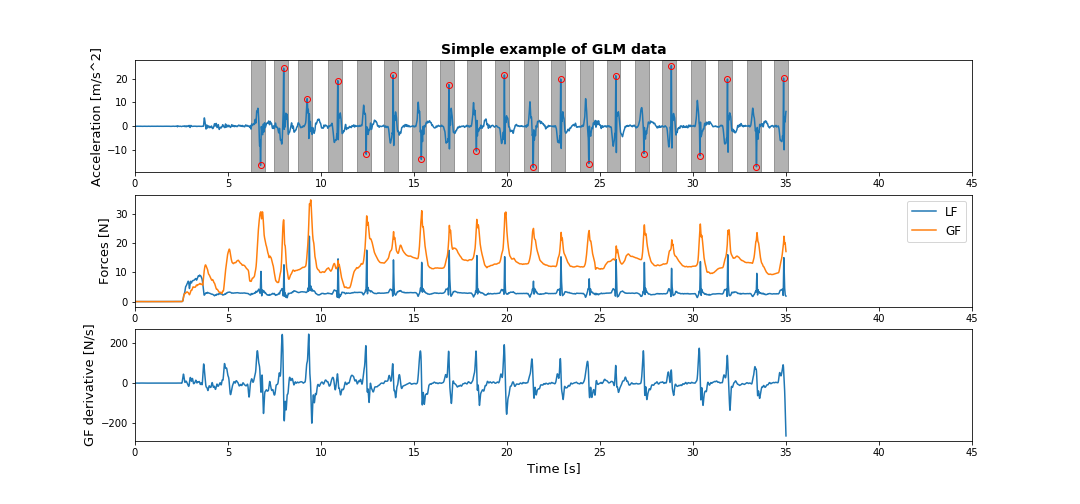
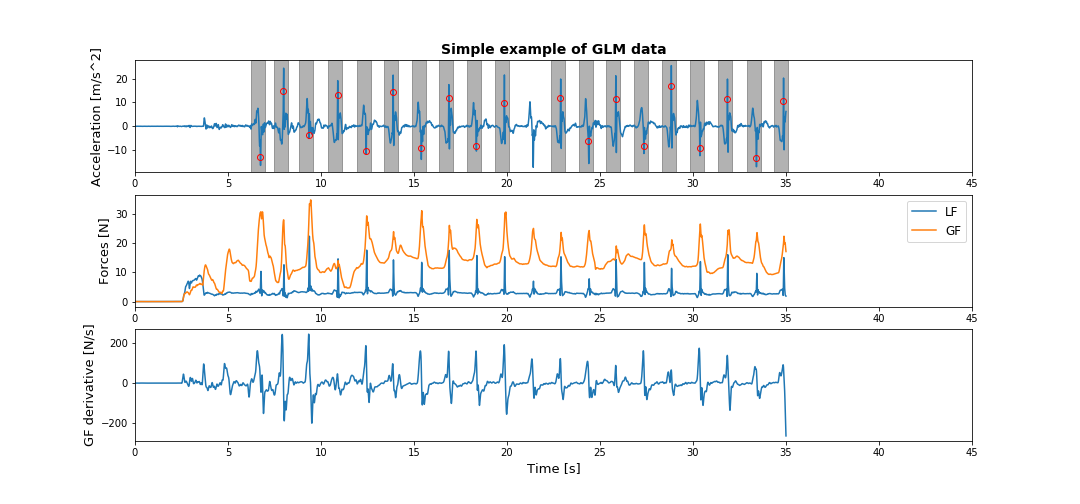
meilleure segmentation + plots

diff --git a/plot_graphes.py b/plot_graphes.py
@@ -44,18 +44,23 @@ def basic_plot(time, accX, ipk, cycle_starts, cycle_ends, LF, GF, dGF, s, trial)
     
     
 
-def plot_segments(GF, LF, cycle_starts, cycle_ends) :
-    plt.figure(figsize = [15,7])
-    plt.axis([0,620, 0, 120])
+def plot_segments(GF, LF, AccX, cycle_starts, cycle_ends, s, trial) :
+    fig = plt.figure(figsize = [15,7])
+    plt.axis([0,620, -50, 50])
     #rapport = GF/LF
     for i in range(0,len(cycle_starts)-1):
-        if i<10 :
+        if i == 0 :
+            col = "g"
+        elif i%2 :
             col = "b"
         else :
             col = "r"
         #plt.plot(range(0,cycle_ends[i]-cycle_starts[i]), rapport[cycle_starts[i]:cycle_ends[i]],color = col, label = i)
         plt.plot(range(0,cycle_ends[i]-cycle_starts[i]), GF[cycle_starts[i]:cycle_ends[i]],color = col, label = i)
+        #plt.plot(range(0,cycle_ends[i]-cycle_starts[i]), AccX[cycle_starts[i]:cycle_ends[i]],color = col, label = i)
         plt.legend(fontsize=12)
+        
+        fig.savefig("figures\%s_%d_acc_segments.png" %(s,trial))
 
 
 
@@ -69,7 +74,7 @@ def plot_diff_samecond(time, rapport, n) :
         ax[i].plot(time,np.zeros(28000),"k")
         ax[i].legend(fontsize=12)
         
-        
+"""       
 def plot_diff_position(time, Acctab, GFtab, n) :
     for i in range(0, n-1) : 
         fig = plt.figure(figsize = [15,14])
@@ -81,3 +86,52 @@ def plot_diff_position(time, Acctab, GFtab, n) :
         ax[1].plot(time, Acctab[i+1], label = "Acc tete en haut "+str(i+2))
         ax[1].legend(fontsize=12)
         i+=2
+"""   
+def plot_diff_position(time, Acctab, GFtab, LFtab, n) :
+    fig = plt.figure(figsize = [15,21])
+    axs = fig.subplots(9,1)
+    for i in range(0, n) :
+       
+        if i%2 :
+            lab = "tete en haut"
+        else :
+            lab = "tete en bas"
+        axs[int(i/2)].plot(time, GFtab[i], label = lab)
+        axs[(int(n/2)+int(i/2))].plot(time, Acctab[i], label = lab)
+        axs[int(n) + int(i/2)].plot(time, LFtab[i], label = lab)
+        axs[int(i/2)].legend(fontsize=12)
+        axs[(int(n/2)+int(i/2))].legend(fontsize=12)
+        axs[(int(n)+int(i/2))].legend(fontsize=12)
+    axs[0].set_title('Bandeau')
+    axs[1].set_title('Lunette')       
+    axs[2].set_title('Vision')
+    axs[3].set_title('Bandeau')
+    axs[4].set_title('Lunette')       
+    axs[5].set_title('Vision')
+    axs[6].set_title('Bandeau')
+    axs[7].set_title('Lunette')       
+    axs[8].set_title('Vision')
+    axs[0].set_ylabel('GF')
+    axs[1].set_ylabel('GF')
+    axs[2].set_ylabel('GF')
+    axs[3].set_ylabel('Acc')
+    axs[4].set_ylabel('Acc')
+    axs[5].set_ylabel('Acc')
+    axs[6].set_ylabel('LF')
+    axs[7].set_ylabel('LF')
+    axs[8].set_ylabel('LF')
+    
+    
+def plot_diff_pos2(time, GFtab) :
+    fig = plt.figure(figsize = [15,14])
+    ax = fig.subplots(3,1)
+    ax[0].plot(time, GFtab[1]-GFtab[0])
+    ax[0].plot(time,np.zeros(28000),"k")
+    ax[1].plot(time, GFtab[3]-GFtab[2])
+    ax[1].plot(time,np.zeros(28000),"k")
+    ax[2].plot(time, GFtab[5]-GFtab[4])
+    ax[2].plot(time,np.zeros(28000),"k")
+    ax[0].set_title('Bandeau tete en haut - tete en bas')
+    ax[1].set_title('Lunette tete en haut - tete en bas')       
+    ax[2].set_title('Classique tete en haut - tete en bas')
+    

diff --git a/gbio_example_script_collisions.py b/gbio_example_script_collisions.py
@@ -21,14 +21,15 @@ import plot_graphes as plot
 # Fermeture des figures ouvertes
 plt.close('all')
 
-subjects = ["Achille1"] #Names of subjects
+subjects = ["Achille2"] #Names of subjects
 trials = [1, 2, 3, 4, 5, 6] #Trials for each subject
 
 
-
-rapporttab = np.zeros(shape=(len(trials)*len(subjects),28000))
-GFtab = np.zeros(shape=(len(trials)*len(subjects),28000))
-Acctab = np.zeros(shape=(len(trials)*len(subjects),28000))
+longueur = 28000
+rapporttab = np.zeros(shape=(len(trials)*len(subjects),longueur))
+GFtab = np.zeros(shape=(len(trials)*len(subjects),longueur))
+LFtab = np.zeros(shape=(len(trials)*len(subjects),longueur))
+Acctab = np.zeros(shape=(len(trials)*len(subjects),longueur))
 i=0
 # Double for-loop that runs thrgough all subjects and trials
 for s in subjects:
@@ -79,7 +80,14 @@ for s in subjects:
         LF   = glm.filter_signal(LF,   fs = freqAcq, fc = freqFiltForces)
         LFv   = glm.filter_signal(LFv,   fs = freqAcq, fc = freqFiltForces)
         LFh   = glm.filter_signal(LFh,   fs = freqAcq, fc = freqFiltForces)
-        
+        """
+        accX = accX[4799:-1]
+        GF = GF[4799:-1]
+        LF = LF[4799:-1]
+        LFv = LFv[4799:-1]
+        LFh = LFh[4799:-1]
+        time = time[4799:-1]
+        """
         #%% Compute derivative of LF
         dGF=der.derive(GF,800)
         dGF=glm.filter_signal(dGF,   fs = freqAcq, fc = 10)
@@ -88,7 +96,7 @@ for s in subjects:
         dLF=glm.filter_signal(dLF,   fs = freqAcq, fc = 10)
         
         #%% CUTTING THE TASK INTO SEGMENTS (your first task)
-        pk = signal.find_peaks(dLF,  prominence=9,distance=700)
+        pk = signal.find_peaks(dLF,  prominence=125,distance=700)
         ipk = pk[0]
         cycle_starts = ipk-400
         cycle_ends = ipk+200
@@ -97,14 +105,16 @@ for s in subjects:
         rapporttab[i] = GF/LF
         Acctab[trial-1] = accX
         GFtab[trial-1] = GF
+        LFtab[trial-1] = LF
         i=i+1
         #%% Basic plot of the data
         
-        #plot.basic_plot(time, accX, ipk, cycle_starts, cycle_ends, LF, GF, dGF, s, trial)
+        plot.basic_plot(time, accX, ipk, cycle_starts, cycle_ends, LF, GF, dGF, s, trial)
         
-        #plot.plot_segments(GF, LF, cycle_starts, cycle_ends)
+        #plot.plot_segments(GF, LF, accX, cycle_starts, cycle_ends, s, trial)
         
-    plot.plot_diff_position(time, Acctab, GFtab, trial)
+    #plot.plot_diff_position(time, Acctab, GFtab, LFtab, trial)
+    #plot.plot_diff_pos2(time, GFtab)
 #plot.plot_diff_samecond(time, rapporttab, len(trials))
         
         
